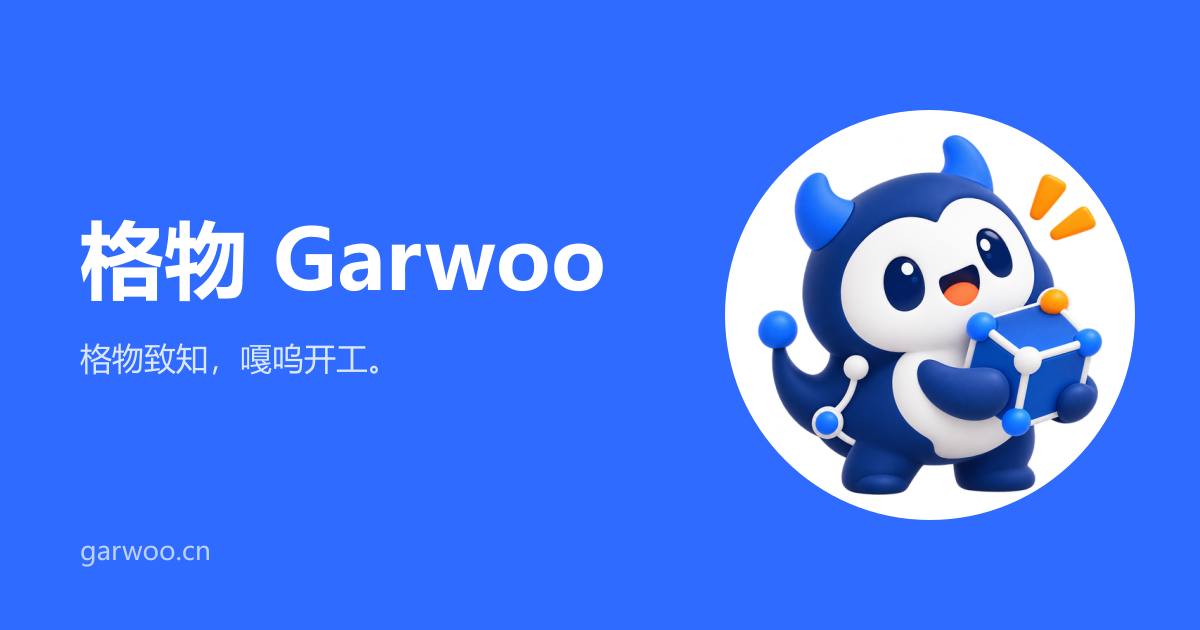
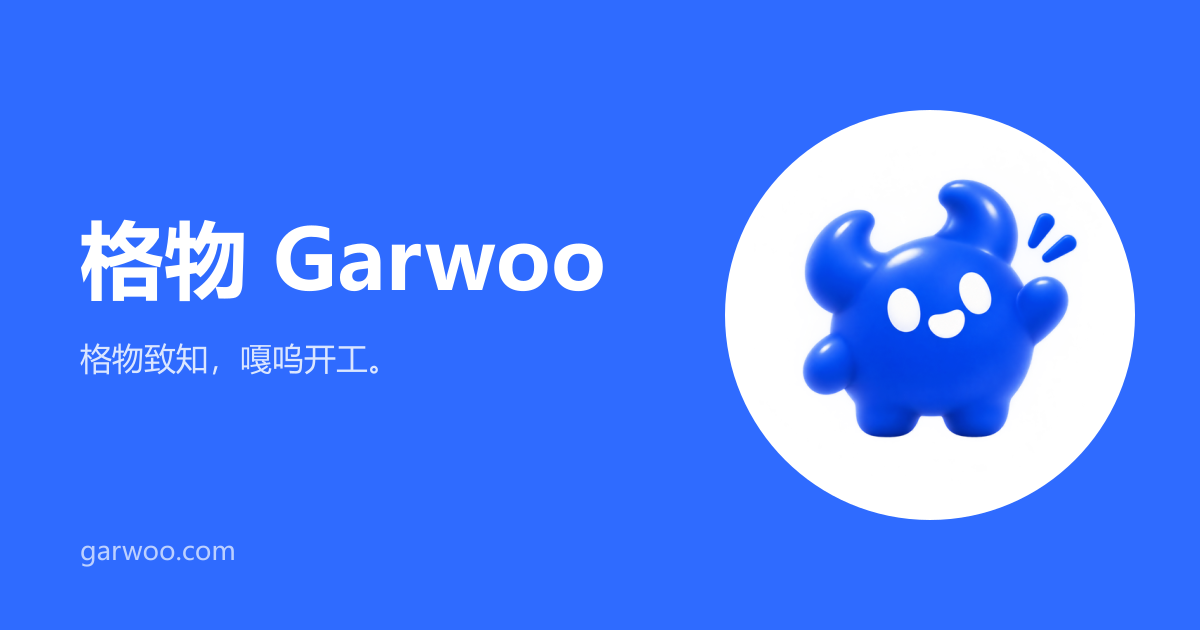
fix(site): make garwoo.com the canonical domain

Changed region(s): [[0.6167, 0.2111, 0.925, 0.7841], [0.1542, 0.8746, 0.185, 0.9048]]

diff --git a/README.md b/README.md
@@ -10,7 +10,7 @@ Node 22，进入 `site/` 后执行 `npm ci`、`npm test`、`npm run check`。Win
 
 - `npm run build:pages`：GitHub Pages 预览，子路径 `/garwoo-site/`，产物 `dist/pages/`。`robots.txt` 为 `Disallow: /`。
 - `SITE_PREVIEW=true WWW_ORIGIN=https://www.garwoo.example npm run build:www`：生产形态（根路径 `/`），占位域名只允许用于评审；产物 `dist/www/`。
-- `WWW_ORIGIN=https://www.garwoo.cn npm run build:www`：正式域名构建。域名与 ICP 备案（品牌迁移方案 G0）完成前不要上线。
+- `WWW_ORIGIN=https://garwoo.com npm run build:www`：正式域名构建。域名与 ICP 备案（品牌迁移方案 G0）完成前不要上线。
 - PowerShell：先设置 `$env:SITE_MODE='www'` 和 `$env:WWW_ORIGIN='…'`，再执行命令。
 
 `ACCOUNT_ORIGIN`、`DOWNLOAD_ORIGIN` 只接受 HTTPS 源地址，尚未开放时留空。所有站内链接用部署无关的根路径：Astro 里调用 `href()`，Markdown 链接由构建插件补当前 base。
@@ -31,13 +31,15 @@ Node 22，进入 `site/` 后执行 `npm ci`、`npm test`、`npm run check`。Win
 
 `deploy/deploy.ps1` 与 `deploy/remote-install.sh` 是从 `iai-pages` 改来的，尚未在真实主机上验证，G5 之前不使用。吉祥物与字标素材（设计稿 v2）不授权复用。
 
+官网主域名为 `https://garwoo.com`。`www.garwoo.com`、`garwoo.cn` 和 `www.garwoo.cn` 跳转到同一主站，保留路径及查询参数。部署时确认 TLS 证书覆盖这四个主机名。
+
 ## 上线前必须完成
 
 当前站点是预览形态（`robots.txt` 与 `<meta name="robots">` 都不让收录），以下事项没做完之前不要用正式域名构建发布：
 
 - **真实截图。** 页面里的产品界面是 HTML 画的示意，不是真实截图。产品内显示名改为“格物”之前，客户端界面仍写着旧名称，截图会与官网品牌不符；对话类截图还要用真实模型的回答。
 - **品牌规范。** 吉祥物与字标已换成设计稿 v2；最小尺寸、安全边距、禁用示例等规范还没定稿，品牌页上的色值是从素材里取样的近似值。
-- **域名与备案。** `garwoo.cn` 的 ICP 备案号、页脚备案位。
+- **域名与备案。** 核对 `garwoo.com` 的 ICP 备案与页脚备案信息。
 - **预约演示、注册与购买。** 目前没有提交端点，企业页的预约表单是禁用状态，不放登录入口。
 - **联系方式与运营主体。** 关于页写“备案完成后公布”。
 
